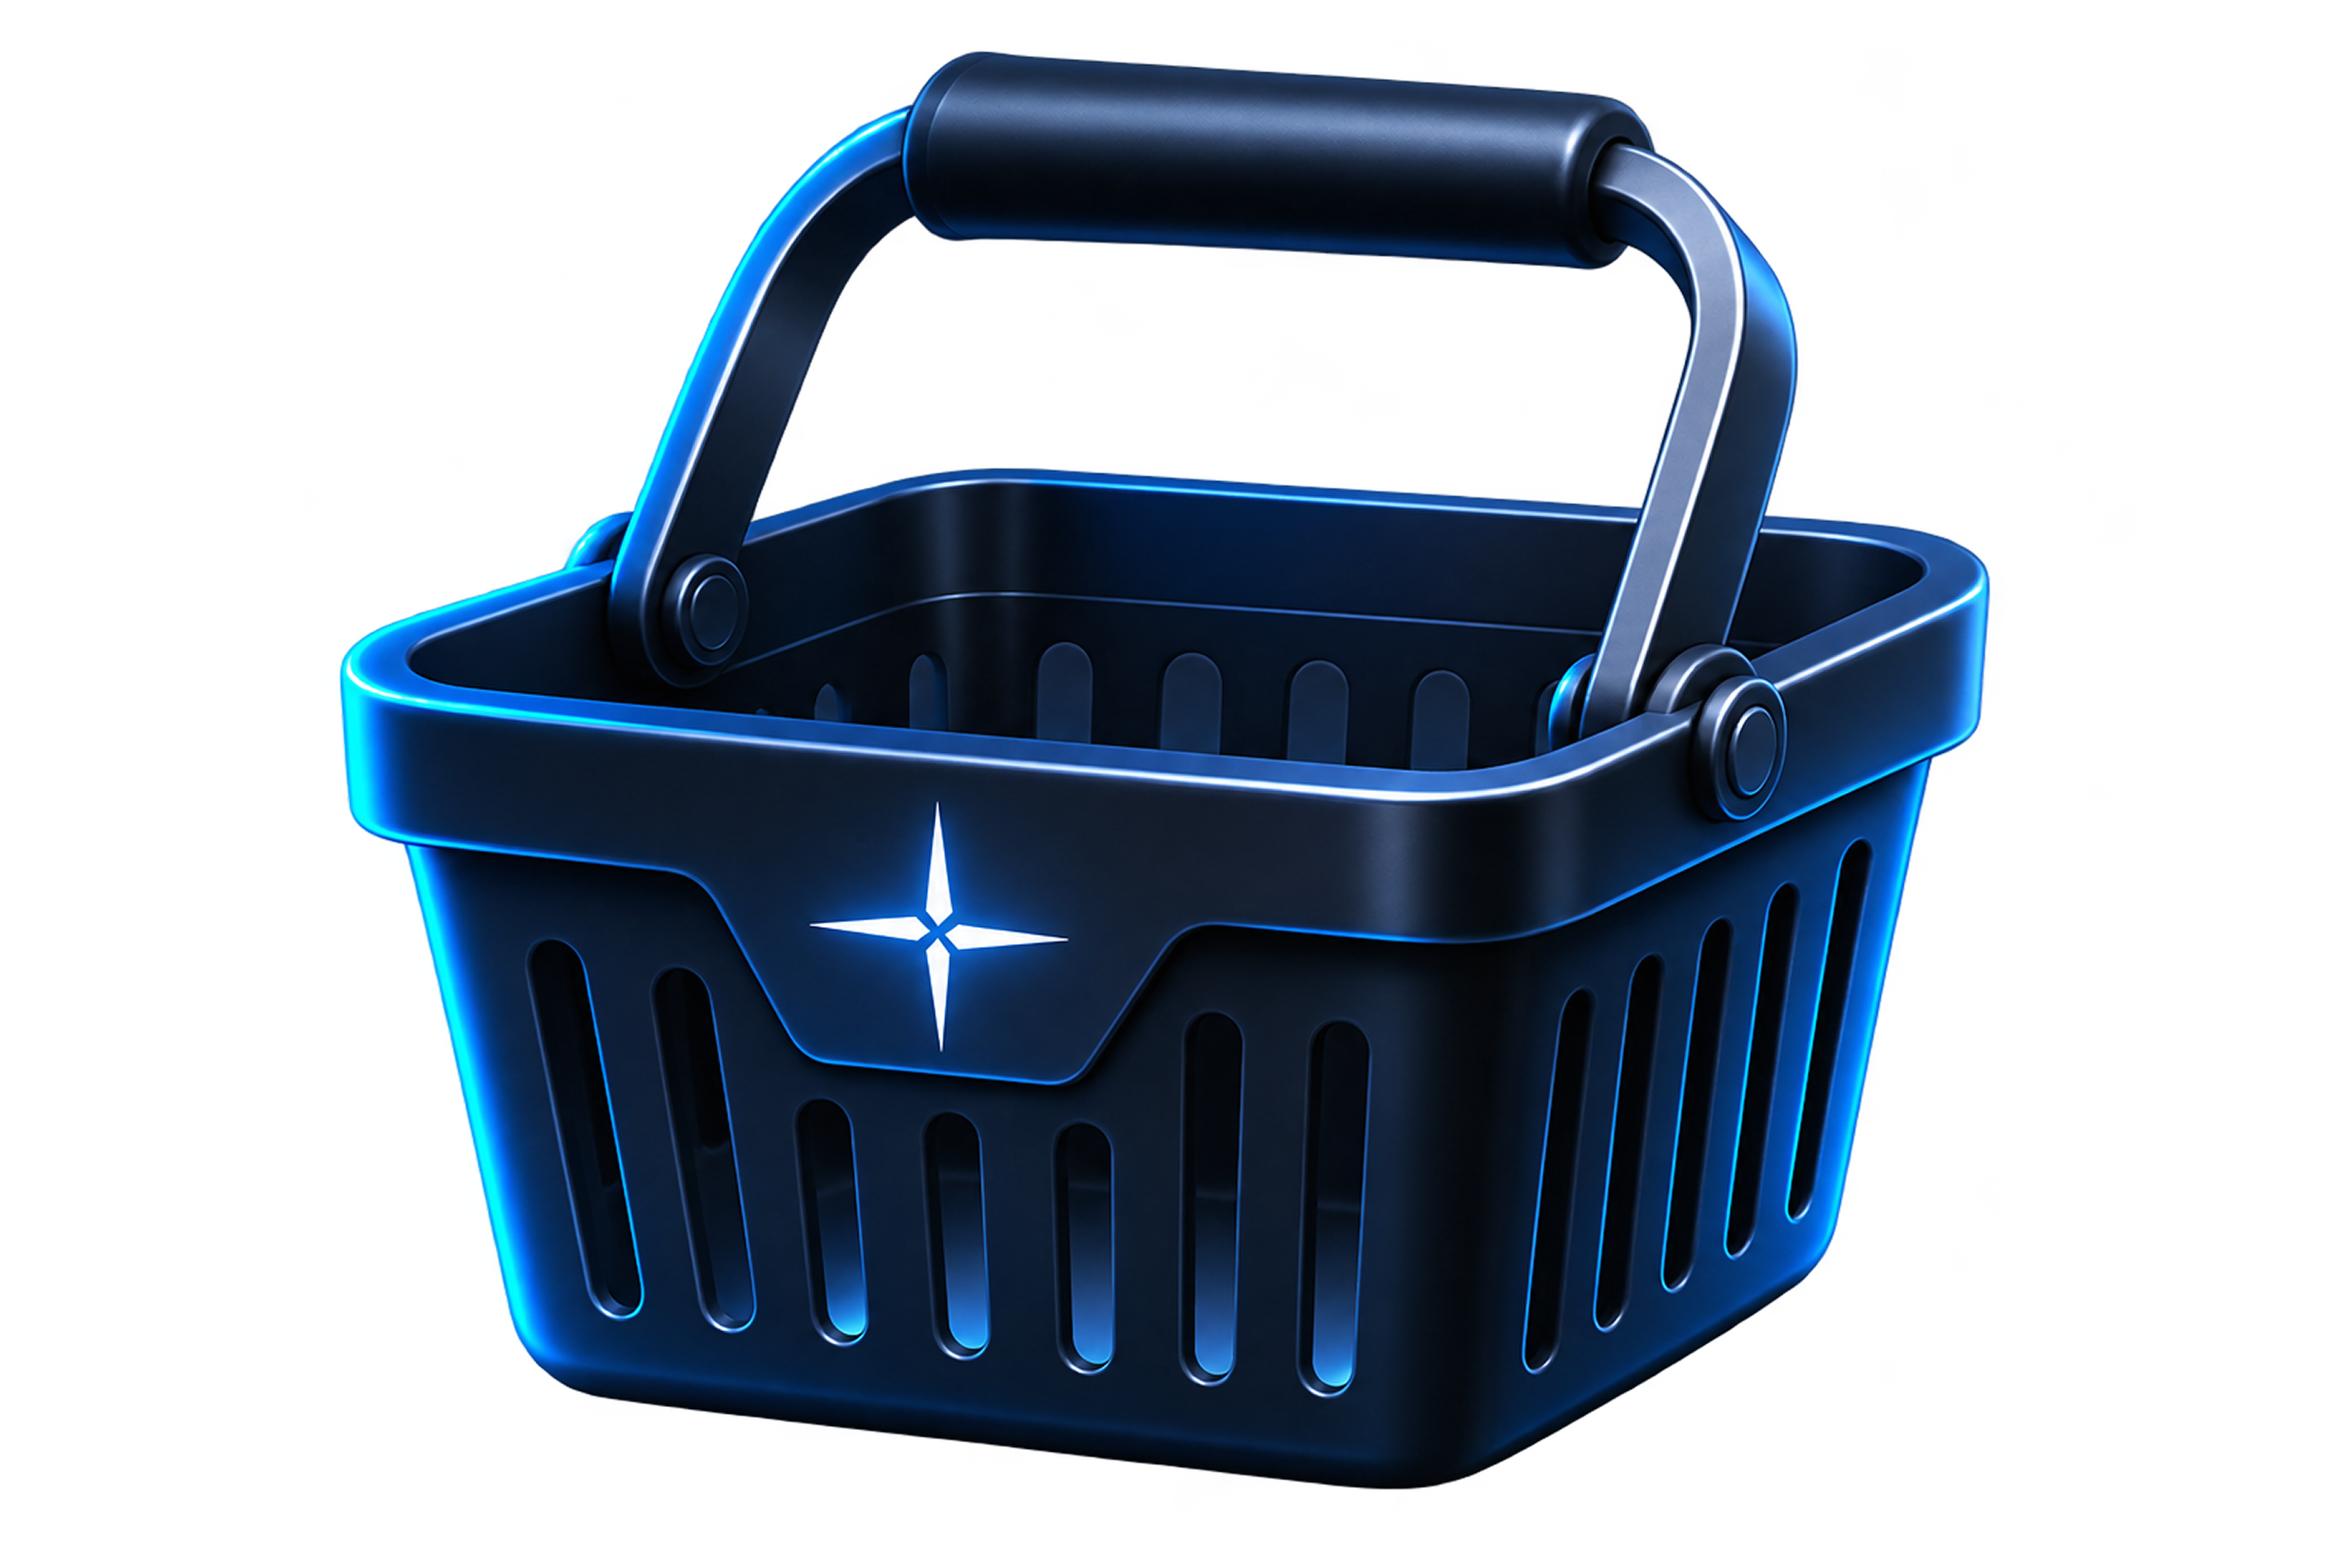
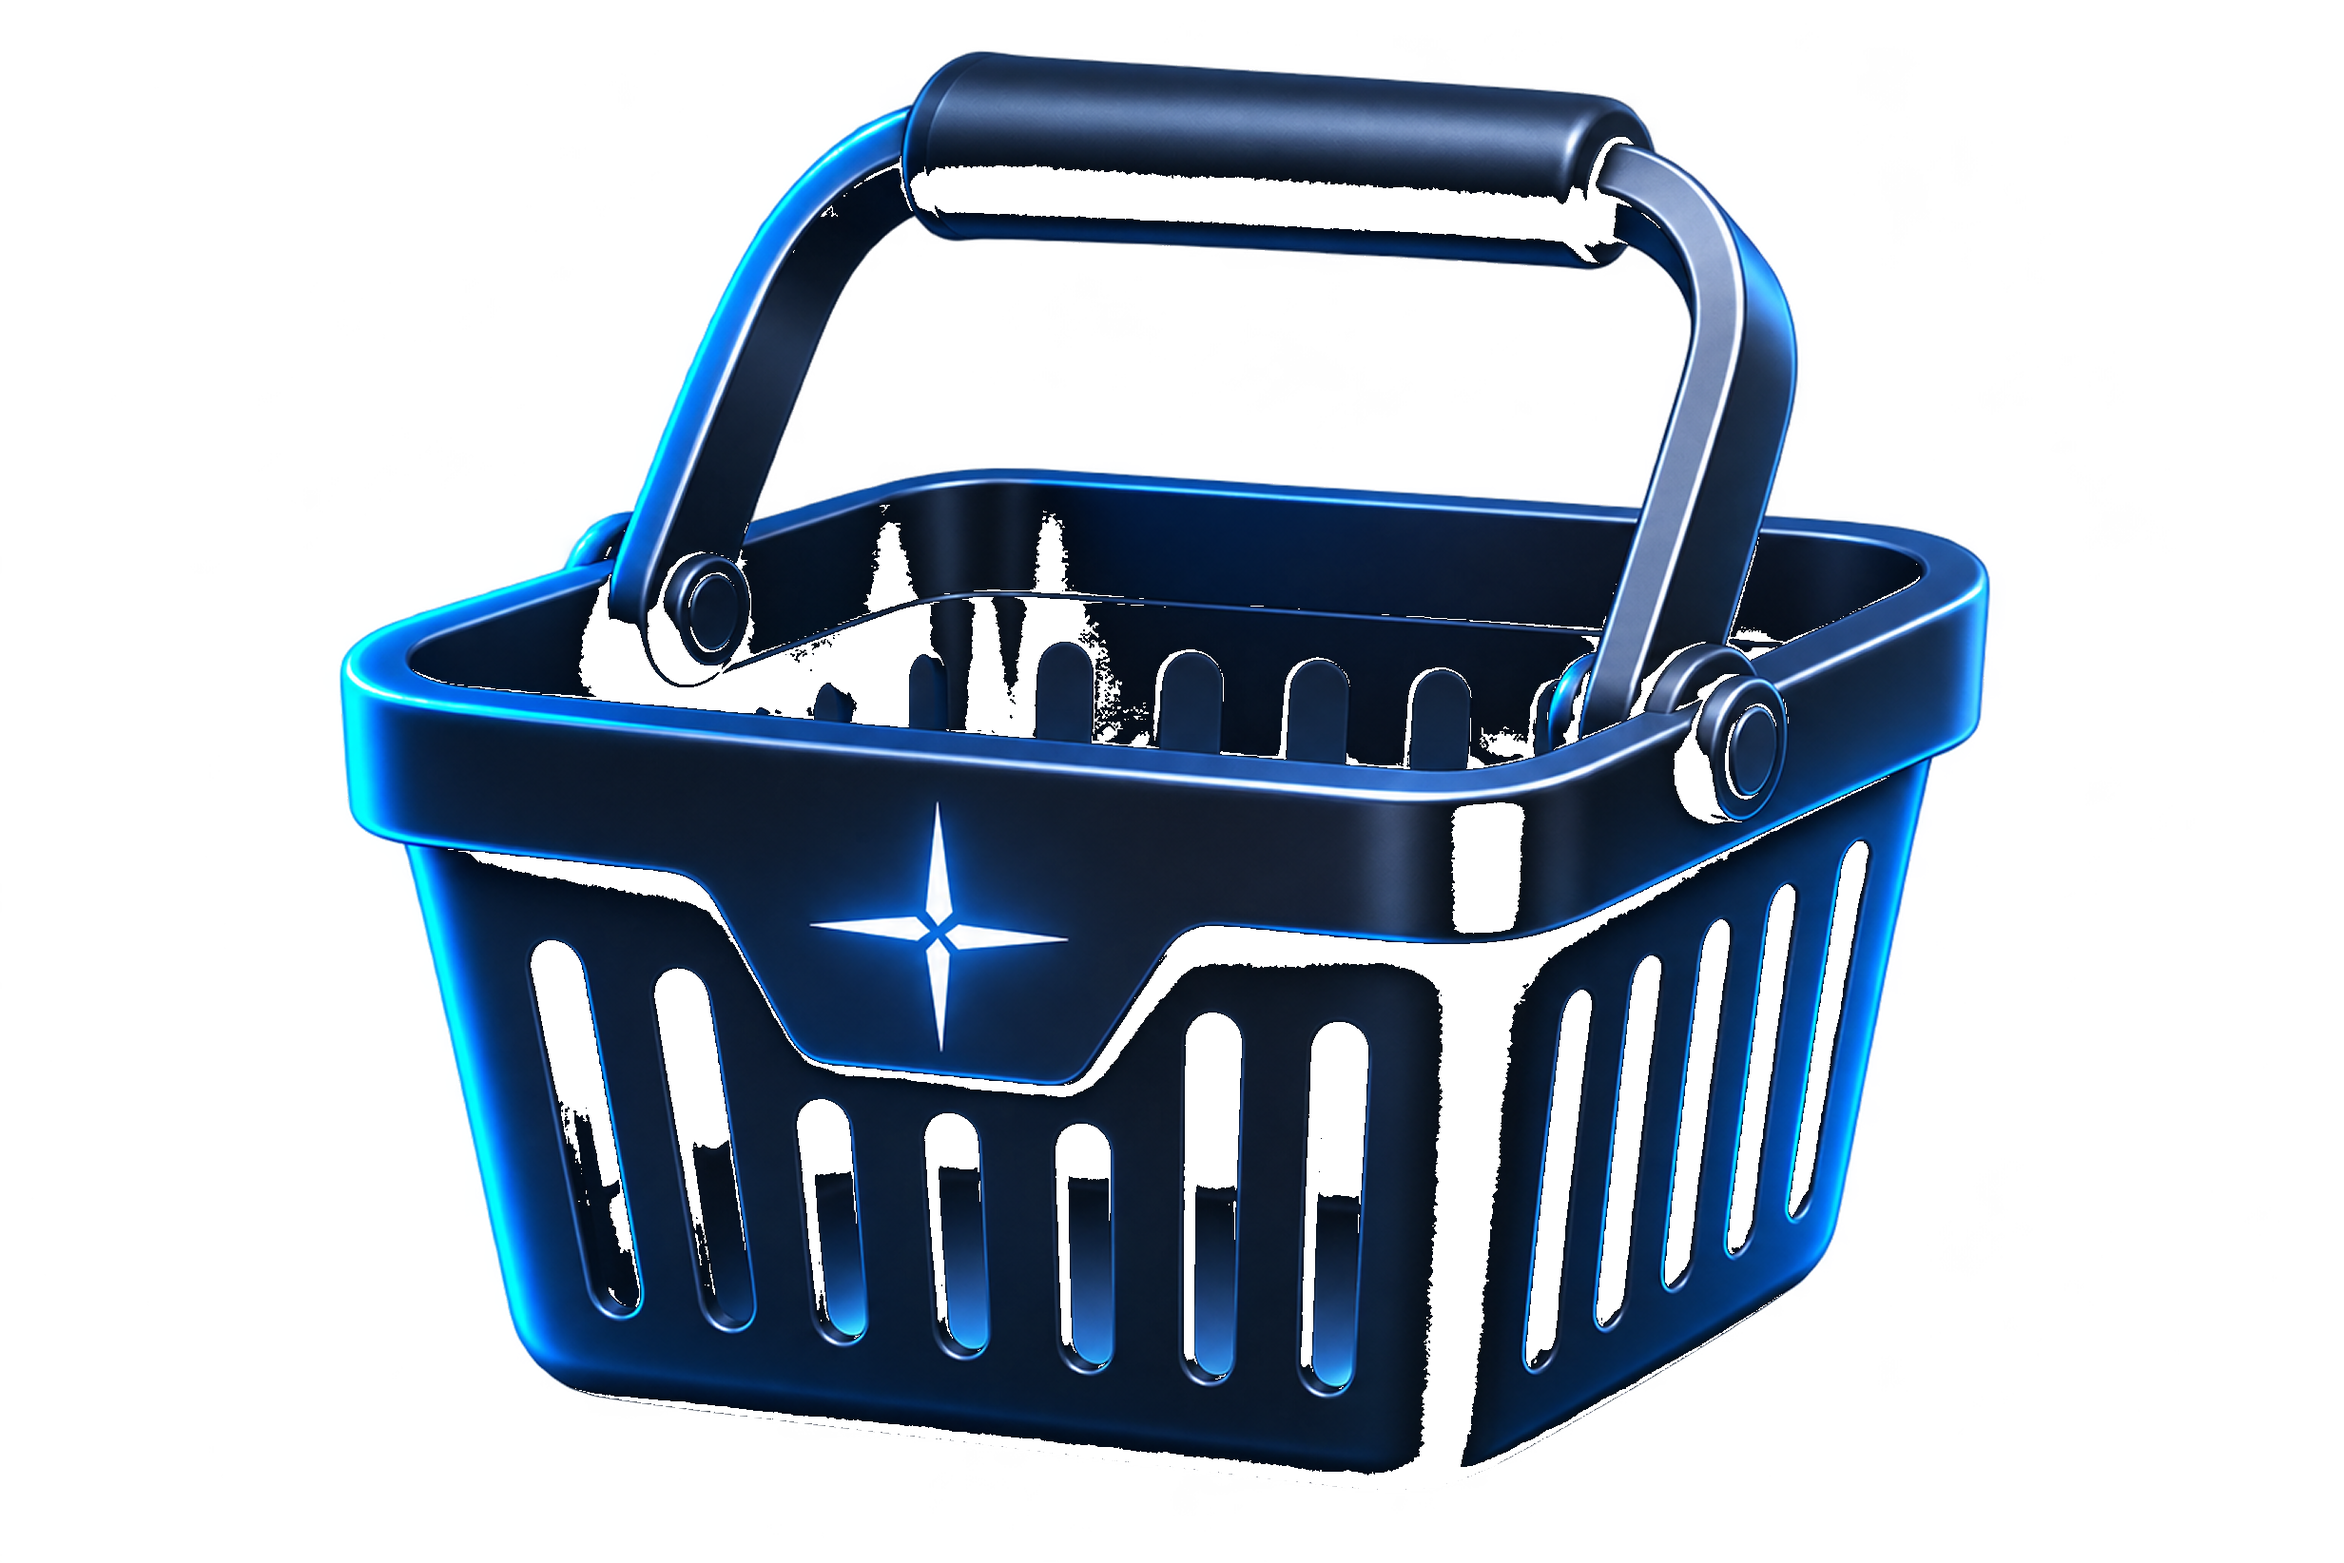
Remove black plates behind empty-cart and referral art.
Knock out opaque black studio fill from the PNGs and drop the CSS panel/glow boxes under those images.

diff --git a/frontend/theme.css b/frontend/theme.css
@@ -3491,6 +3491,48 @@ body[data-route="mix"] .m-hero{
   .mp-dock{display:none!important}
 }
 
+/* Empty-state art: no black plate under basket / referral PNGs */
+.desktop-empty-cart .dec-visual,
+.desktop-referral-guest .dec-visual{
+  background:transparent!important;
+  border:0!important;
+  box-shadow:none!important;
+  overflow:visible!important;
+}
+.desktop-empty-cart .dec-visual:after,
+.desktop-referral-guest .dec-visual:after{
+  display:none!important;
+}
+.desktop-empty-cart .dec-visual > .bonus-case-glow,
+.desktop-referral-guest .dec-visual > .bonus-case-glow,
+.desktop-empty-cart .dec-visual > .bonus-case-particles,
+.desktop-referral-guest .dec-visual > .bonus-case-particles{
+  display:none!important;
+}
+.desktop-empty-cart .dec-art,
+.desktop-referral-guest .dec-art,
+.desktop-empty-cart .dec-art > img,
+.desktop-referral-guest .dec-art > img{
+  background:transparent!important;
+  box-shadow:none!important;
+}
+.referral-guest-art,
+.referral-guest-art > img{
+  background:transparent!important;
+  border:0!important;
+  box-shadow:none!important;
+}
+.me-empty,
+.mw-page .me-empty{
+  border:0!important;
+  background:transparent!important;
+  box-shadow:none!important;
+}
+.me-empty > img,
+.mw-page .me-empty > img{
+  background:transparent!important;
+}
+
 /* —— Mobile cart / wishlist empty: restore framed layout after flat-panel theme —— */
 @media(max-width:720px){
   .m-route-cart,
@@ -3535,38 +3577,34 @@ body[data-route="mix"] .m-hero{
     display:flex!important;
     flex-direction:column!important;
     align-items:stretch!important;
-    gap:.75rem!important;
+    gap:.85rem!important;
     min-height:calc(100dvh - 15.5rem - env(safe-area-inset-bottom,0px))!important;
-    margin:0 .7rem!important;
-    padding:.4rem .4rem 0!important;
-    border:1px solid transparent!important;
-    border-radius:1.15rem 1.15rem 0 0!important;
-    background:
-      radial-gradient(ellipse at 8% 18%,rgba(7,26,54,.55),transparent 62%),
-      linear-gradient(#03080e,#000) padding-box,
-      linear-gradient(#3370ff,#000 85%) border-box!important;
+    margin:0 .85rem!important;
+    padding:0!important;
+    border:0!important;
+    border-radius:0!important;
+    background:transparent!important;
     box-shadow:none!important;
   }
   .me-empty{
     flex:0 0 auto!important;
     min-height:0!important;
     margin:0!important;
-    padding:1.15rem 1rem 1.25rem!important;
-    border:1px solid #123c78!important;
-    border-radius:1rem!important;
-    background:
-      radial-gradient(ellipse at 50% 0,rgba(7,52,117,.55),transparent 55%),
-      radial-gradient(ellipse at 100% 80%,rgba(12,34,69,.35),transparent 55%),
-      #080909!important;
+    padding:.85rem .5rem 1rem!important;
+    border:0!important;
+    border-radius:0!important;
+    background:transparent!important;
+    box-shadow:none!important;
     text-align:center!important;
   }
   .me-empty>img{
     display:block!important;
-    width:min(11.5rem,62vw)!important;
+    width:min(12.5rem,68vw)!important;
     height:auto!important;
-    max-height:9.5rem!important;
-    margin:0 auto .85rem!important;
+    max-height:10.5rem!important;
+    margin:0 auto .75rem!important;
     object-fit:contain!important;
+    background:transparent!important;
     filter:none!important;
   }
   .me-empty h2{

diff --git a/frontend/styles.css b/frontend/styles.css
@@ -1142,8 +1142,8 @@ body:has(.m-route-wishlist):before,.m-route-wishlist:before{display:none}
 .m-route-wishlist .m-cart-heading{height:80px;padding:20px 10px 0;text-align:center}
 .m-route-wishlist .m-cart-heading p{font-size:11px;margin-top:8px;color:#a5a9b1}
 .me-frame{position:relative;display:flex;flex-direction:column;gap:10px;min-height:calc(100dvh - 238px - env(safe-area-inset-bottom,0px));margin:0 9px;padding:5px 5px 0;border:1px solid transparent;border-radius:18px 18px 0 0;background:radial-gradient(ellipse at 5% 20%,#071a3688,transparent 65%),linear-gradient(#03080e,#000) padding-box,linear-gradient(#3370ff,#000 85%) border-box}
-.me-empty{flex-shrink:0;min-height:207px;padding:15px 12px 20px;border:1px solid #123c78;border-radius:15px;background:radial-gradient(ellipse at 50% 0,#07347599,transparent 50%),radial-gradient(ellipse at 100% 80%,#0c224555,transparent 55%),#080909;text-align:center}
-.me-empty>img{display:block;height:118px;width:155px;max-width:85%;object-fit:contain;margin:0 auto 10px;filter:saturate(.7)}
+.me-empty{flex-shrink:0;min-height:0;padding:12px 8px 16px;border:0;border-radius:0;background:transparent;text-align:center}
+.me-empty>img{display:block;height:118px;width:155px;max-width:85%;object-fit:contain;margin:0 auto 10px;background:transparent;filter:none}
 .me-empty h2{font-size:20px;line-height:1.3;font-weight:400;margin:0;background:linear-gradient(90deg,#afafaf,#fff 33%,#6f6f6f);background-clip:text;-webkit-background-clip:text;color:transparent;-webkit-text-fill-color:transparent}
 .me-empty p{font-size:11px;line-height:1.4;color:#a1a3a7;margin:8px 0 0}
 .me-continue{display:flex;justify-content:center;align-items:center;flex-shrink:0;min-height:44px;margin-top:auto;margin-bottom:0;text-align:center;font-size:14px;font-weight:600;border-radius:24px;background:linear-gradient(125deg,#0e3978,#0a2859);border:1px solid #247ddd;border-top-color:#b7d1ed;border-right-color:#b7d1ed;box-shadow:inset 0 2px 5px #77a5d055}

diff --git a/frontend/index.html b/frontend/index.html
@@ -9,14 +9,14 @@
 <meta name="description" content="Smoke Island - katalog, wybór wariantów, koszyk i bonusy.">
 <link rel="preconnect" href="https://fonts.googleapis.com">
 <link rel="preconnect" href="https://fonts.gstatic.com" crossorigin>
-<link rel="preload" href="styles.css?v=20261116-cart-mobile" as="style">
-<link rel="stylesheet" href="styles.css?v=20261116-cart-mobile">
-<link rel="stylesheet" href="theme.css?v=20261116-cart-mobile">
+<link rel="preload" href="styles.css?v=20261116-png-no-plate" as="style">
+<link rel="stylesheet" href="styles.css?v=20261116-png-no-plate">
+<link rel="stylesheet" href="theme.css?v=20261116-png-no-plate">
 <script src="https://telegram.org/js/telegram-web-app.js?64" defer></script>
 <title>Smoke Island</title>
 <script src="config.js"></script>
 <!-- Built from frontend/js/* via: node scripts/build-frontend.mjs -->
-<script src="app.js?v=20261116-cart-mobile" defer></script>
+<script src="app.js?v=20261116-png-no-plate" defer></script>
 </head>
 <body>
 <a class="skip-link" href="#app">Przejdź do treści</a>
